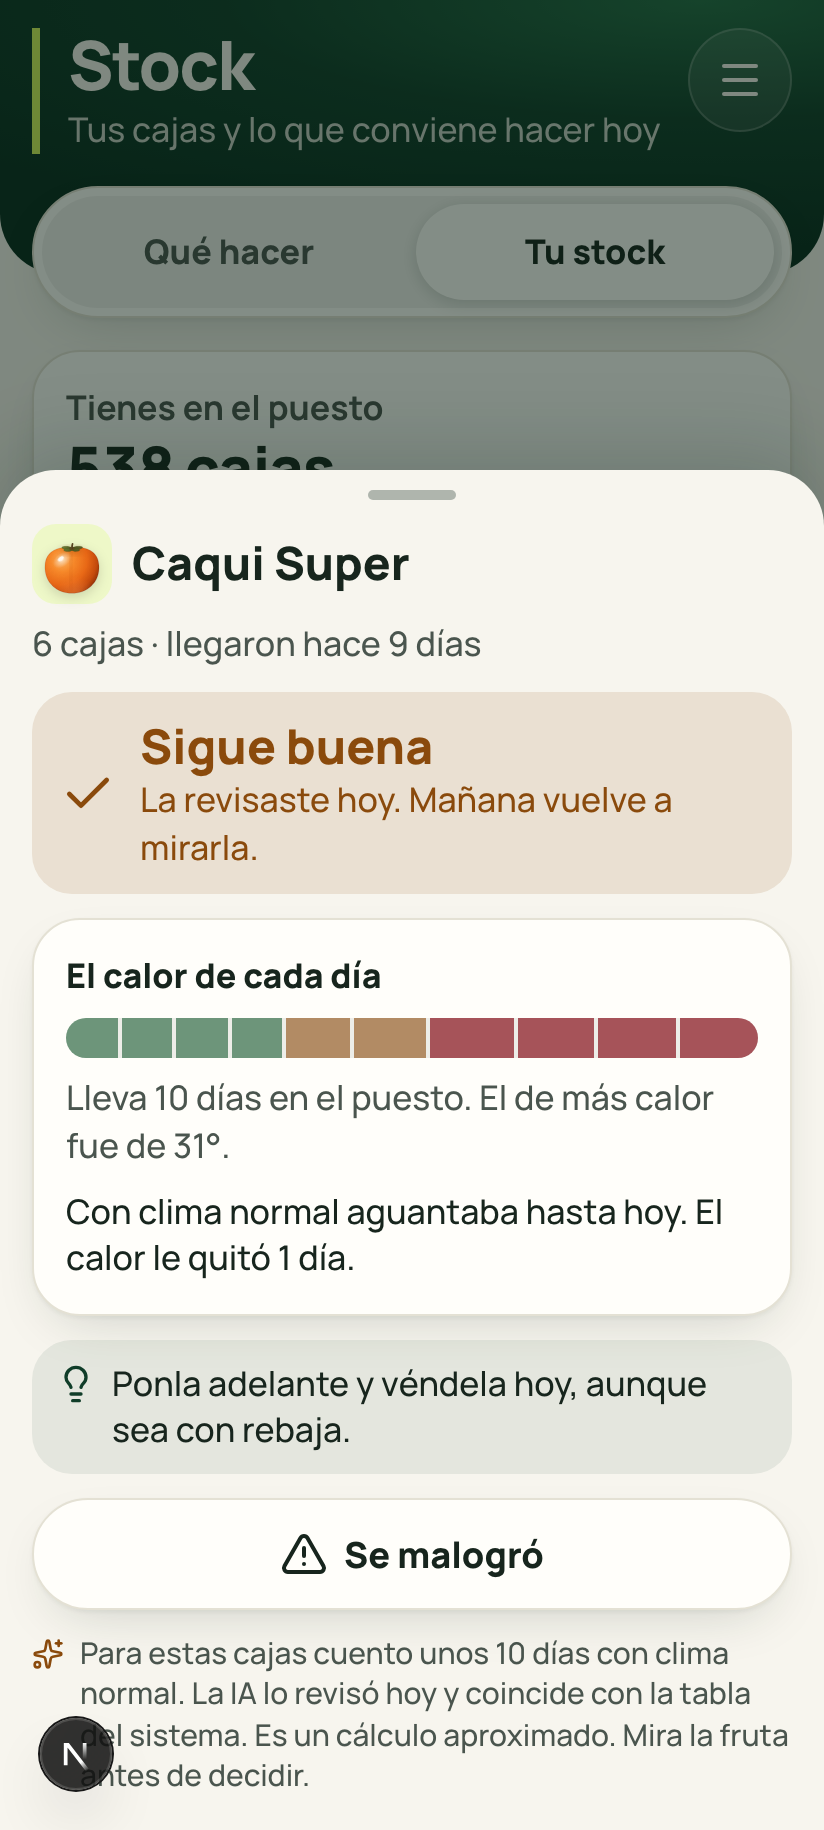
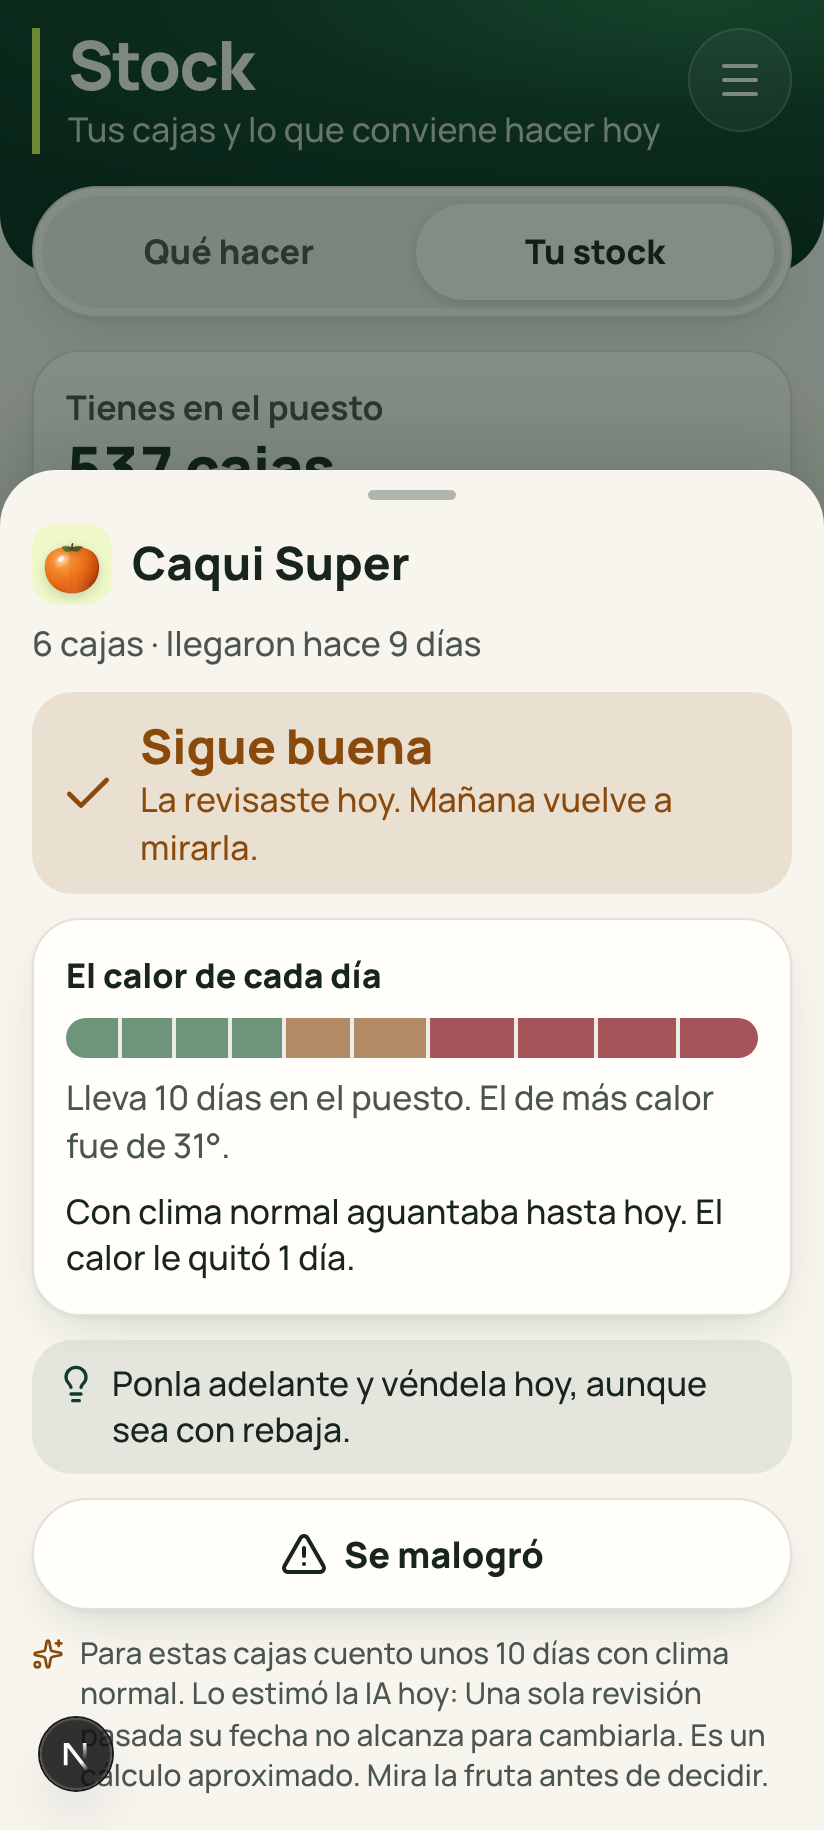
fix(frescura): la revisión es de una llegada que existe, y lo que dejó /chaos y /formidable
/chaos: por la API se podía anotar la revisión de una llegada inventada; ahora
la base lo comprueba (trigger, con su prueba primero). Cinco toques seguidos
mandan un solo pedido. Informes de /chaos y /formidable, y bitácora.

Changed region(s): [[0.1214, 0.9033, 0.9405, 0.9967]]

diff --git a/components/inventario/SigueBuena.tsx b/components/inventario/SigueBuena.tsx
@@ -2,7 +2,7 @@
 
 import { Check } from "lucide-react";
 import { useRouter } from "next/navigation";
-import { useState } from "react";
+import { useRef, useState } from "react";
 
 import { anotarSigueBuena } from "@/app/(app)/acciones-frescura";
 import { useCola } from "@/components/cola/ColaProveedor";
@@ -26,10 +26,14 @@ export function SigueBuena({ productoId, lote, alError }: Props) {
   const esperar = useEspera();
   const sinSenal = useCola()?.situacion.enLinea === false;
   const [guardando, setGuardando] = useState(false);
+  // El estado no alcanza para frenar cinco toques del mismo instante (todavía no se volvió a dibujar): la base no duplicaba,
+  // pero salían cinco pedidos (/chaos 2026-11-16).
+  const enCurso = useRef(false);
 
   async function anotar() {
-    if (guardando) return;
+    if (enCurso.current) return;
     if (sinSenal || !navigator.onLine) return alError(NECESITA_SENAL);
+    enCurso.current = true;
     setGuardando(true);
     alError(null);
     let reloj = 0;
@@ -39,6 +43,7 @@ export function SigueBuena({ productoId, lote, alError }: Props) {
     const pedido = anotarSigueBuena({ productoId, llegadaDia: lote.antes ? null : lote.dia, estado: lote.estado }).catch(() => ({ ok: false as const, error: SIN_SENAL }));
     const r = await esperar(Promise.race([pedido, tope]), "Anotando…");
     window.clearTimeout(reloj);
+    enCurso.current = false;
     setGuardando(false);
     if (!r.ok) return alError(r.error);
     vibrar(30);

diff --git a/app/(app)/acciones-frescura.ts b/app/(app)/acciones-frescura.ts
@@ -81,7 +81,7 @@ export async function anotarSigueBuena(entrada: z.input<typeof revision>): Promi
   const { productoId, llegadaDia, estado } = leido.data;
 
   const s = await sesion();
-  if (!s) return { ok: false, error: sinSesionAMano("que sigue buena"), sinSesion: true };
+  if (!s) return { ok: false, error: "Tu sesión terminó. Vuelve a entrar y anótalo otra vez.", sinSesion: true };
   const { supabase, permisos } = s;
   if (!permisos.registrar) return { ok: false, error: NO_PUEDE };
 
@@ -99,7 +99,8 @@ export async function anotarSigueBuena(entrada: z.input<typeof revision>): Promi
   const { error } = await supabase.from("revisiones_frescura").insert({ producto_id: productoId, llegada_dia: llegadaDia, llegada_estado: estado });
   if (error && error.code !== YA_GUARDADO) {
     console.error("frescura: no se pudo anotar la revisión", { productoId, codigo: error.code });
-    return { ok: false, error: error.code === "42501" ? NO_PUEDE : SIN_SENAL };
+    // 23514: esa llegada no existe (la base lo comprueba también, por si alguien escribe sin pasar por aquí).
+    return { ok: false, error: error.code === "42501" ? NO_PUEDE : error.code === "23514" ? YA_NO : SIN_SENAL };
   }
   return { ok: true };
 }

diff --git a/docs/formidable/frescura-ia-2026-11-16.md b/docs/formidable/frescura-ia-2026-11-16.md
@@ -1,0 +1,55 @@
+# /formidable · Hoja «¿por qué?» con «Sigue buena» y el origen de la cuenta · 2026-11-16
+
+- **Qué es:** la hoja de una llegada en Stock, ahora con el botón «Sigue buena» (para la que ya pasó su día) y, al pie, de dónde sale
+  la cuenta: la tabla o la IA, con su motivo (ADR-0021). La usa el dueño o el ayudante en el celular, de pie.
+- **Rama:** `claude/frescura-ia`. **Escala:** un agente ciego. Sin escéptico.
+
+## 1. Medido (412 × 915 y 360 × 800, con la demo y estimaciones reales de Sonnet)
+
+- 0 controles menores de 48 px, 0 desborde horizontal, 0 errores de consola. La hoja no necesita deslizarse (657 px a 412; 731 a 360).
+- «Sigue buena» y «Se malogró» van lado a lado, de 56 px de alto. A menos de 400 px van sin dibujo: con él, el texto se partía en dos líneas.
+- Tras el toque: vibración, sonido y el veredicto cambia a «Sigue buena · La revisaste hoy. Mañana vuelve a mirarla.» (con visto, no con triángulo).
+- El pie va a 15 px (texto secundario) y llega a 5 líneas cuando el motivo es largo.
+- E2e (`stock-sigue-buena`, `vida-estimada`) a 412 y 360 px: en verde.
+
+Capturas en `capturas/frescura-ia-2026-11-16/`: `hoja-sigue-buena-antes-{412,360}`, `hoja-sigue-buena-despues-{412,360}`,
+`hoja-origen-ia-{412,360}` y `hoja-origen-ajuste-412`.
+
+## 2. Prueba ciega (Observado; tres capturas a 412 px)
+
+| Tarea | Nota | Lo que pasó |
+|---|---|---|
+| 1 · La fruta está buena: ¿qué tocas? | 8 | Tocó «Sigue buena» sin dudar y esperaba que se quitara el aviso rojo. Dudó con «Su último día bueno fue ayer» («suena a que ya está malograda, y yo la veo buena») y con «llegaron hace 9 días» junto a «Lleva 10 días en el puesto». Buscó dónde poner la rebaja. |
+| 2 · Después del toque | 8 | Entendió que quedó anotado, que sus 6 cajas no se movieron, que hoy la vende y mañana la vuelve a mirar. Para una merma tocaría «Se malogró». Dudó: la barra sigue en rojo, y «no veo cómo deshacer si toqué sin querer». |
+| 3 · ¿De dónde sale la cuenta? (tuna ajustada) | 5 | Supo que lo dice la IA, por mermas anteriores y por el calor. Pero «las cuentas no me cierran»: «unos 6 días», «el calor le quitó 2», «le quedan 3», «hasta el sábado 21». Y los motivos sueltos no se entienden: «¿el mismo día de qué?», «no entendí qué es "cambiarla"». Si no está de acuerdo, no ve qué tocar. |
+
+## 3. Notas
+
+- Leyes: 1 · 8, 2 · 8, 3 · 6, 4 · 7, 5 · 8, 6 · 7, 7 · 7, 8 · 7, 9 · 8.
+- Celular: C1 9 · C2 10 · C3 7 · C4 10 · C5 10 · C6 10 · C7 9 · C8 9.
+- Oficio: 7 (los rótulos de los días se pisan en una fruta de vida larga: ver abajo).
+- **Nota total: 7.8.** El toque se entiende solo (8 y 8); el pie con el origen de la cuenta, no (5).
+
+## 4. Los 3 cambios de mayor impacto (esperan OK)
+
+1. **Que los números del pie cuadren con los de arriba.** Antes: «cuento unos 6 días con clima normal» debajo de «aguantaba hasta el
+   sábado 21» y «el calor le quitó 2 días». Después: una sola frase en la tarjeta del calor, con la misma fecha («La IA le calcula 6 días
+   con clima normal: hasta el sábado 21. El calor le quitó 2.»), y el pie solo con el motivo. Ley 3. Se verifica con Vitest de las frases
+   y repitiendo la tarea 3.
+2. **Un motivo que se entienda sin haber visto el pedido.** Antes: «Una sola revisión pasada su fecha no alcanza para cambiarla», «el
+   mismo día: le quito un día». Después: cuando el ajuste deja el número igual, la hoja dice «La IA miró lo que pasó en el puesto y la
+   dejó igual»; cuando cambia, el motivo nombra el hecho («Dos mermas el día que llegó»). Ley 4. Se verifica midiendo motivos reales.
+3. **«Su último día bueno fue ayer» no debe sonar a «ya está mala».** Antes: el veredicto rojo lo dice así. Después: «Según la cuenta,
+   ayer era su último día. Mírala.», y los días se cuentan igual en toda la hoja («llegaron hace 9 días» / «lleva 10 días»). Leyes 1 y 4.
+
+**Lo que sobra** (ley 8): la frase «Es un cálculo aproximado…» repetida al pie de cada hoja, cuando el pie ya es largo.
+**Lo que nadie pidió y más importa:** «Sigue buena» no tiene «Deshacer» (ley 7). Un toque por error calla el aviso de esa llegada hasta mañana.
+
+## 5. Lo demás (sin ejecutar)
+
+- Los rótulos de los días («31° 30° 30° 30°», «vie sáb dom hoy») se pisan cuando la fruta dura mucho y lleva pocos días
+  (`components/inventario/HojaPorQue.tsx:83`): se ve en `hoja-origen-ia-412.png`. Venía de antes.
+- Después de «Sigue buena», la barra del calor sigue en rojo.
+- No hay dónde anotar la rebaja ni decir que solo algunas cajas están malas.
+- Si la persona no está de acuerdo con la IA (cree que aguanta más), solo puede esperar a que la llegada se pase para tocar «Sigue buena».
+- El INP sigue sin medirse en un teléfono real.

diff --git a/docs/chaos/frescura-ia-2026-11-16.md b/docs/chaos/frescura-ia-2026-11-16.md
@@ -1,0 +1,60 @@
+# /chaos · «Sigue buena» y la estimación de la noche · 2026-11-16
+
+- **Pantalla:** la hoja «¿por qué?» de una llegada que ya pasó su último día bueno, con el botón «Sigue buena»
+  (`components/inventario/SigueBuena.tsx`, `anotarSigueBuena` en `app/(app)/acciones-frescura.ts` → `revisiones_frescura`). De paso,
+  lo que guarda la estimación de cada noche (`vida_util_estimada`), por la API.
+- **Rama:** `claude/frescura-ia`. **Semilla:** 20261116.
+- **Base:** solo la local propia de este worktree (`127.0.0.1:56421`). Respaldo de datos antes de empezar; invariantes limpias antes y
+  después. Las 10 frutas de prueba quedaron inactivas; sus revisiones se quedan (no se borra nada).
+- **Conteo:** 10 ataques, cada uno con su fruta. Primera pasada: 9 resistieron y 1 fue hallazgo, más 2 observaciones. Con los arreglos,
+  los mismos 10 ataques: **10 resisten.**
+- **Sin probar:** en un teléfono real (todo fue con el navegador emulando 412 × 915 y 800 × 360).
+
+**Núcleo:** doble toque; red cortada al tocar; dos cuentas a la vez. La frase de voz ambigua y el monto con coma no aplican: esta hoja
+no tiene voz ni montos.
+**Sorteados con la semilla:** respuesta perdida; señal lenta; sesión vencida; pantalla vieja (ya no hay cajas); celular echado;
+recargar después de anotar; permisos y entradas hostiles por la API.
+
+## Hallazgo
+
+### 1 · Dato malo en silencio: se podía anotar la revisión de una llegada que no existe (gravedad 2) — arreglado
+
+**Repetir:** con la sesión de una cuenta que registra, escribir en `revisiones_frescura` sin pasar por la app, con un día de llegada
+en el que no entró nada de esa fruta.
+
+**Evidencia:** la fila quedaba guardada (`ayudanteLlegadaQueNoExiste: ok`). La app nunca la habría creado (mira el inventario antes de
+anotar), y Stock no la mostraba; pero la estimación de la noche la habría contado como evidencia de que esa fruta dura más.
+
+**Causa:** la comprobación vivía solo en la acción del servidor. La app es comodidad; la base es la regla.
+
+**Arreglo:** un trigger en la base (`revision_de_una_llegada_que_existe`): la revisión tiene que ser de un día en que entraron cajas
+de esa fruta, y que llegaron así. Prueba primero: `22_revisiones_frescura.test.sql`, tres casos que estaban en rojo. Mismo ataque,
+misma semilla: `23514`, ninguna fila. La tabla nunca llegó al proyecto sin el trigger: va en la misma migración.
+
+## Observaciones (arregladas)
+
+- **Cinco toques en el mismo instante mandaban cinco pedidos.** La base dejaba una sola fila, pero cada pedido leía el inventario
+  entero. Ahora sale uno (`llamadasAlServidor: 5 → 1`).
+- **La frase con la sesión vencida** decía «registra que sigue buena otra vez». Ahora: «Tu sesión terminó. Vuelve a entrar y anótalo
+  otra vez.»
+
+## Resistieron
+
+| Ataque | Qué pasó |
+|---|---|
+| Doble toque (5 en el mismo instante) | 1 fila; la hoja pasa a «Sigue buena» y el botón desaparece. |
+| Red cortada al tocar | «No se pudo guardar. Revisa tu señal e inténtalo otra vez.» 0 filas. Al reintentar, 1 fila. |
+| Respuesta perdida (la base guardó, la respuesta no llegó) | Dice que no se pudo guardar; al tocar otra vez la acción ve que ya está anotada y la hoja cambia. 1 fila. |
+| Señal lenta (6 s) | Velo «Anotando…» sobre la pantalla: no se puede tocar otra vez. 1 pedido, 1 fila. |
+| Dueño y ayudante a la vez | 1 fila (del primero que llegó); los dos ven «Sigue buena». |
+| Sesión vencida | Lo dice y no guarda. 0 filas. |
+| Pantalla vieja (otro ya registró la merma de todas las cajas) | «Esa llegada ya no está por revisar. Mira Stock otra vez.» 0 filas. |
+| Celular echado (800 × 360) | Se llega al botón, se anota. Sin desborde. |
+| Recargar después de anotar | Sigue «Sigue buena», sin botón. 1 fila. |
+| Por la API | El contador y quien no tiene sesión no anotan (`42501`); nadie anota con fecha de mañana, a nombre de otro, con una llegada futura, una fruta que no existe o un estado inventado; nadie borra; ni el dueño escribe una estimación; sin sesión no se lee nada. |
+
+**Concurrencia del cron** (dos pasadas la misma noche): la segunda contesta `sin-novedad` y no duplica (`tests/e2e/vida-estimada.spec.ts`);
+la base lo impide igual con «una por fruta y por día».
+
+**Caída del modelo:** sin clave, con error 500 o con un rechazo, el cron contesta, el aviso de la noche sale y Stock sigue con lo que
+tenía (`lib/vida-estimada/estimar-del-dia.test.ts` y la prueba e2e «si el modelo falla»).

diff --git a/docs/formidable/README.md b/docs/formidable/README.md
@@ -25,3 +25,4 @@ Una fila por pantalla u hoja. Cada informe es historial: no se sobrescribe; una 
 | Cola sin conexión: franja, «Quedó en el celular» y aviso de dictados (ADR-0019) | 2026-11-12 | 7.6 → 8.1 | 3 cambios aplicados con OK (rechazo «No entró» con su motivo, señal débil sin botón, el dictado dice qué es). Ciegos: rechazo 3 → 5, señal débil 6 → 8, dictado listo 6 → 7. Queda «Anotarlo otra vez» en el rechazo | [cola-sin-conexion-2026-11-12](cola-sin-conexion-2026-11-12.md) |
 | Aviso de frescura: pedido de temperatura en «Hoy», tarjeta de temperatura, Stock en dos pestañas, hoja «¿por qué?» y «¿Cómo llegó?» | 2026-11-15 | 7.3 → 7.8 | 3 cambios aplicados con OK: en «Hoy» los avisos empiezan al 51 % y 58 % de la pantalla (antes 87 % y 101 %); en Stock el primer aviso, al 19 % (antes 38 %); la hoja habla como el puesto y no se queda vieja. El ciego: «Hoy» de 4 a 6; Stock y la hoja siguen en 6 (el número de «Qué hacer» no cuadra y los filtros, abajo, se encuentran tarde). /chaos: los 4 hallazgos arreglados; 18 de 19 resisten | [frescura-2026-11-14](frescura-2026-11-14.md) |
 | Stock «Qué hacer» en dos grupos (variante C: sin número ni filtros) | 2026-11-16 | 7.8 (sin cambio) | Variante C aplicada con OK. Medido: primer aviso al 23 % (412 px) y 30 % (360 px), 0 controles chicos, 0 desborde. Ciego: contar lo de hoy 3 → 5; qué sale hoy 9 → 8; «Puede esperar» 6 → 6. Queda: «Te sobran» dentro de «Para hoy», la cuenta de «Compra unas N cajas» y «Ver N avisos» sin pista (3 cambios esperan OK) | [frescura-2026-11-14](frescura-2026-11-14.md) (sección 7) |
+| Hoja «¿por qué?» con «Sigue buena» y el origen de la cuenta (ADR-0021) | 2026-11-16 | 7.8 | Medido a 412 y 360 px: 0 controles chicos, 0 desborde. Ciego: «Sigue buena» 8, después del toque 8, de dónde sale la cuenta 5 (los números del pie no cuadran con los de arriba y el motivo de la IA no se entiende suelto). 3 cambios esperan OK | [frescura-ia-2026-11-16](frescura-ia-2026-11-16.md) |

diff --git a/docs/bitacora/2026-11-16-frescura-ia.md b/docs/bitacora/2026-11-16-frescura-ia.md
@@ -1,0 +1,14 @@
+# 2026-11-16 · La IA estima cuánto aguanta cada fruta (actividad 5, ADR-0021)
+
+- **Qué cambió, en tres pasos con su commit:**
+  1. Junto al aviso de la noche, el servidor le pregunta a Claude Sonnet 5.5 por las frutas sin estimación. Stock cuenta con eso y la hoja «¿por qué?» dice de dónde sale. Si el modelo falla, sigue la tabla.
+  2. «Sigue buena» en la hoja de una llegada que ya pasó su día: queda anotado, sale de «para hoy» y pasa a «sale mañana».
+  3. Se corrige sola: las mermas y los «Sigue buena» entran al pedido de la noche siguiente; el ajuste va acotado (un paso por noche, dentro del margen de la tabla) y con su motivo.
+- **Cómo se verificó:** Vitest 789 en verde; pgTAP con cuatro archivos nuevos o ampliados (21 a 23); e2e con un modelo de mentira (`tests/e2e/sonnet-simulado.mjs`); y con el modelo de verdad contra la base local: 58 frutas en 15 s, todas dentro del margen; después, dos mermas de tuna el día que llegó → «le quito un día», y un solo «Sigue buena» de caqui → «no alcanza para cambiarla».
+- **`/chaos`** (`docs/chaos/frescura-ia-2026-11-16.md`): 10 ataques; un hallazgo de gravedad 2 arreglado en la base, con su prueba primero. **`/formidable`** (`docs/formidable/frescura-ia-2026-11-16.md`): 7.8; el toque se entiende (8), el pie con el origen no (5). Sus 3 cambios esperan OK.
+- **Migraciones solo en local, esperan OK:** `vida_util_estimada`, `revisiones_frescura`, `mermas_con_stock` (y `temperaturas_solo_agregar`, del PR 37).
+- **Pendiente:**
+  - Poner `ANTHROPIC_API_KEY` en las variables de Vercel. Sin ella, producción contesta `sin-configurar` y sigue con la tabla.
+  - Los rótulos de los días se pisan en una fruta de vida larga (`components/inventario/HojaPorQue.tsx:83`); venía de antes.
+  - «Sigue buena» no tiene «Deshacer».
+  - El CI de GitHub sigue sin correr: todo lo de arriba se corrió a mano.
